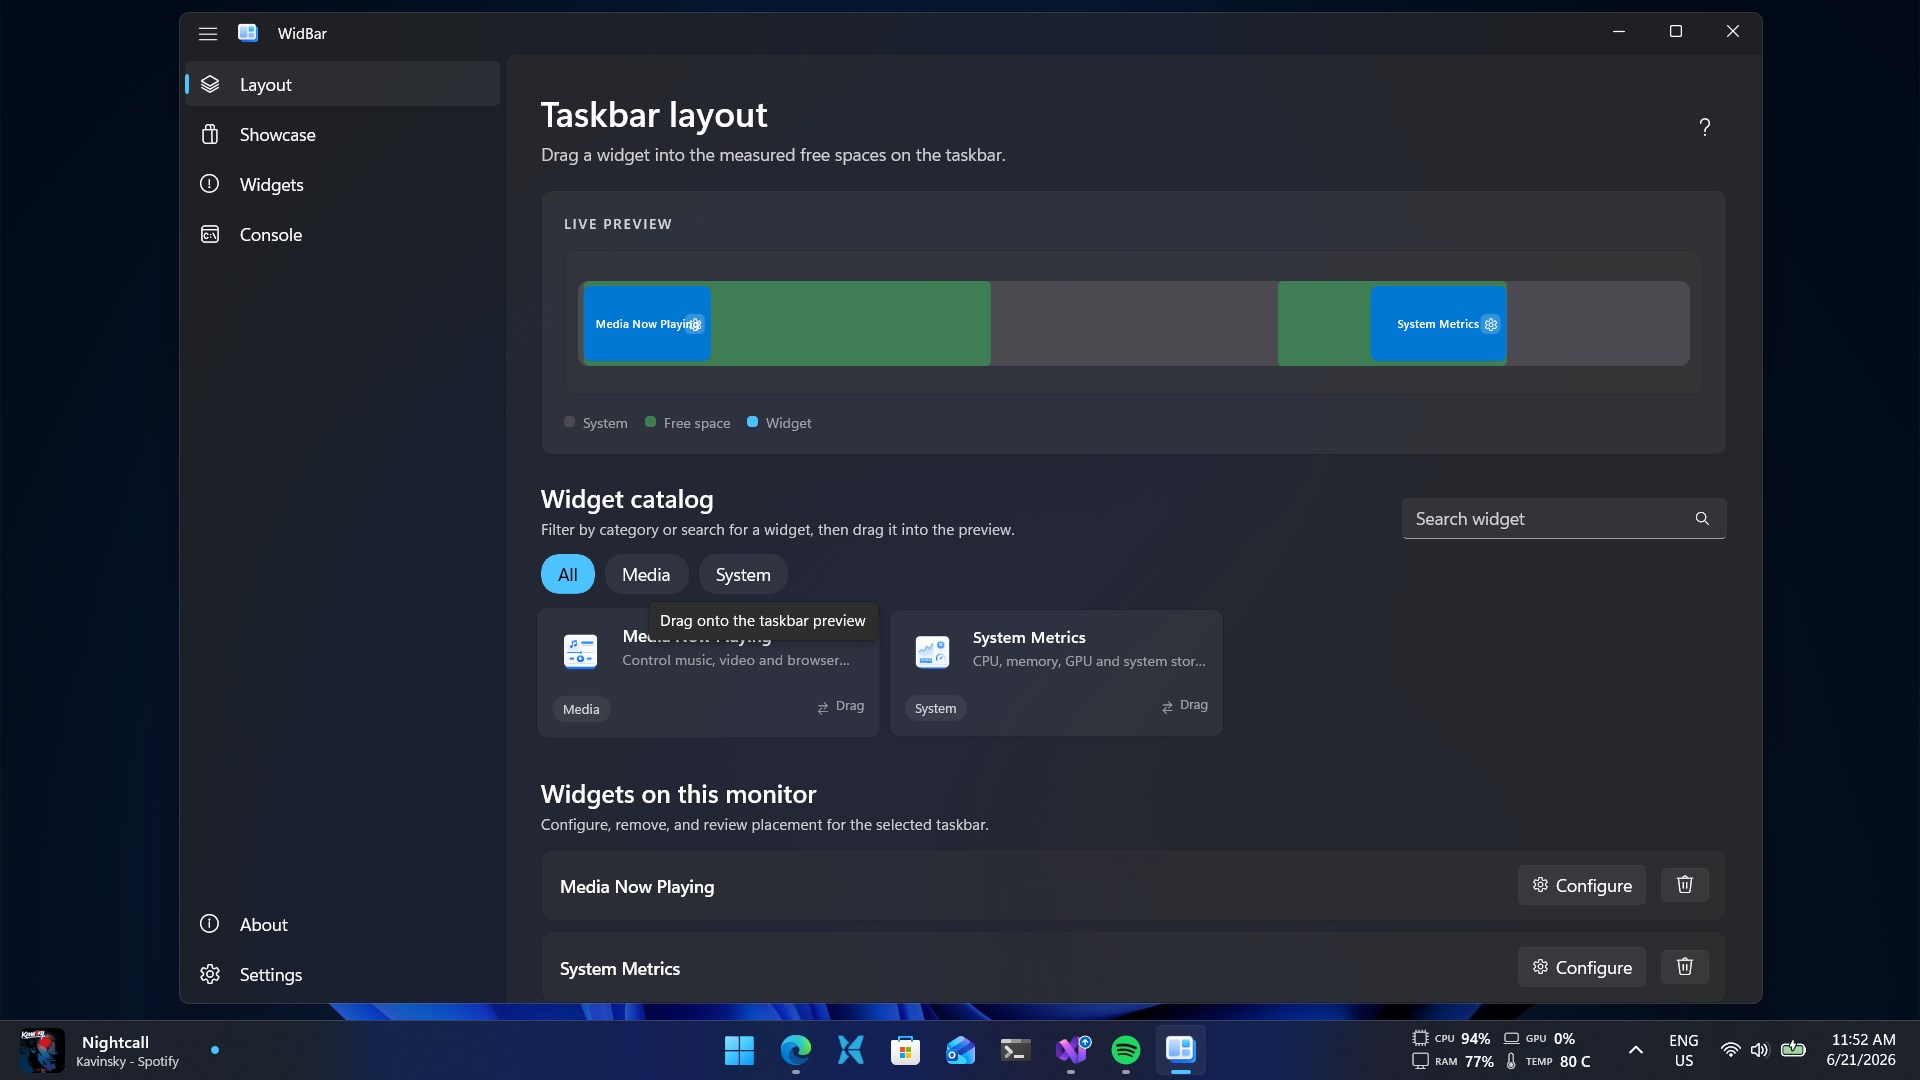
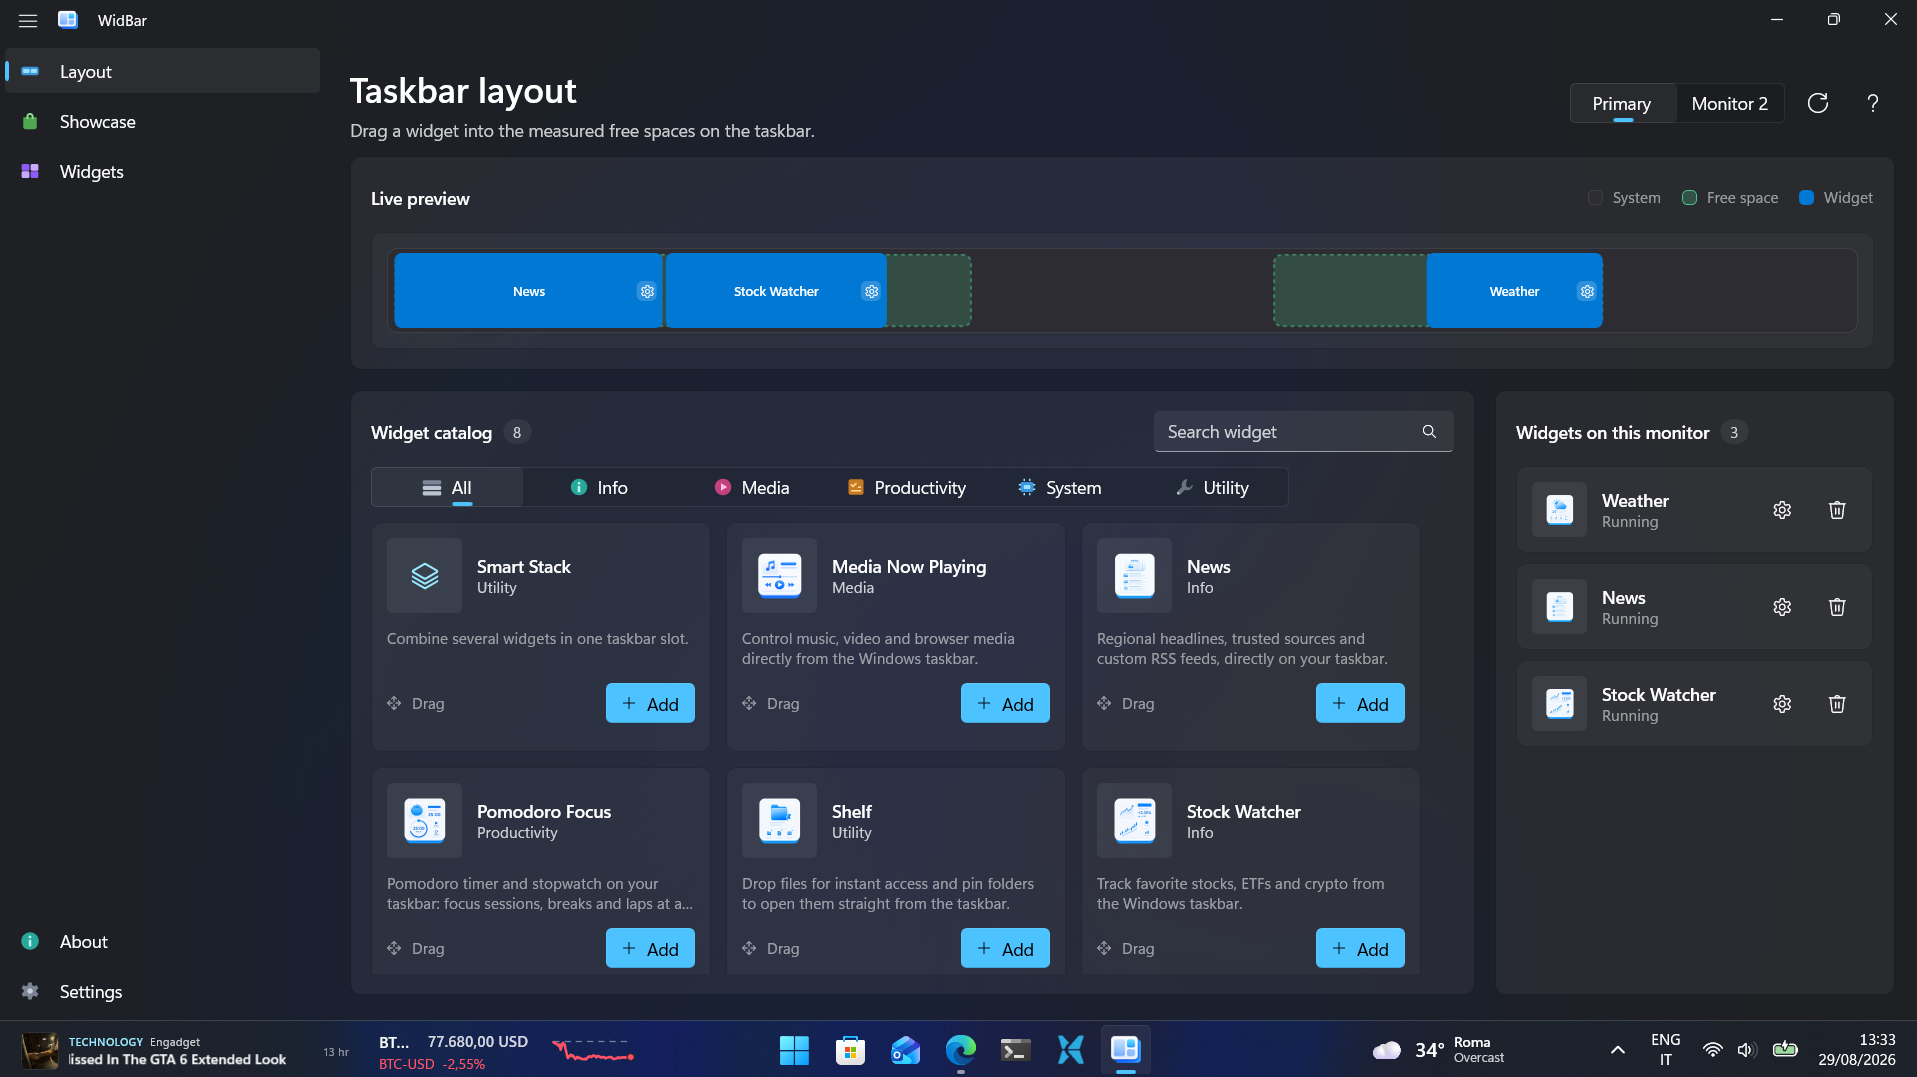
Refresh the hero and add News and Weather cards

diff --git a/styles.css b/styles.css
@@ -153,9 +153,10 @@ main {
 
 .hero {
   display: grid;
-  grid-template-columns: minmax(0, .72fr) minmax(520px, 1.28fr);
+  /* Wide enough for the headline to set in four lines rather than six. */
+  grid-template-columns: minmax(0, .84fr) minmax(520px, 1.16fr);
   align-items: center;
-  gap: clamp(34px, 6vw, 86px);
+  gap: clamp(34px, 5vw, 72px);
   min-height: min(820px, calc(100vh - 60px));
   padding: 46px 0 48px;
 }
@@ -179,9 +180,11 @@ p {
 h1 {
   margin-bottom: 18px;
   max-width: 700px;
-  font-size: clamp(2.8rem, 5vw, 4.15rem);
-  line-height: 1;
-  letter-spacing: 0;
+  font-size: clamp(2.6rem, 4.4vw, 3.9rem);
+  line-height: 1.04;
+  letter-spacing: -.01em;
+  /* Evens out the line lengths instead of leaving one orphan word per line. */
+  text-wrap: balance;
 }
 
 h2 {
@@ -232,14 +235,17 @@ h3 {
   isolation: isolate;
 }
 
+/* Soft glow behind the screenshots. */
 .hero-composition::before {
   content: "";
   position: absolute;
-  inset: 15% 4% 10% 16%;
+  inset: 0;
   z-index: -1;
-  border-radius: 16px;
-  background: linear-gradient(135deg, rgba(73, 191, 243, .2), rgba(112, 215, 122, .12));
-  opacity: .7;
+  /* Stops fade to their own hue at zero alpha. `transparent` is black, and
+     fading through it leaves a grey rectangle the size of the element. */
+  background:
+    radial-gradient(58% 46% at 66% 26%, rgba(73, 191, 243, .2), rgba(73, 191, 243, 0) 72%),
+    radial-gradient(42% 36% at 24% 78%, rgba(112, 215, 122, .1), rgba(112, 215, 122, 0) 74%);
 }
 
 .hero-layer {
@@ -248,42 +254,74 @@ h3 {
   border-radius: 8px;
   background: var(--panel);
   box-shadow: 0 28px 80px rgba(0, 0, 0, .42);
-  transition: transform .28s ease, border-color .28s ease, box-shadow .28s ease;
+  transition: transform .28s ease, scale .28s ease, border-color .28s ease, box-shadow .28s ease;
 }
 
+/* App behind, four widget flyouts fanned along the bottom. The stagger and the
+   tilt are what keep them legible; flush and straight they read as one band. */
 .hero-layer-main {
-  top: 12%;
+  top: 0;
   right: 0;
-  width: 86%;
-  z-index: 2;
+  width: 90%;
+  z-index: 1;
 }
 
-.hero-layer-media {
+.hero-layer-news {
   left: 0;
-  bottom: 3%;
-  width: 38%;
-  z-index: 4;
+  bottom: 15%;
+  width: 26%;
+  z-index: 5;
+  transform: rotate(-2deg);
   animation: heroFloat 7s ease-in-out infinite;
 }
 
-.hero-layer-metrics {
-  right: 6%;
-  bottom: 0;
-  width: 48%;
-  z-index: 3;
+.hero-layer-media {
+  left: 25%;
+  bottom: 6%;
+  width: 26%;
+  z-index: 4;
+  transform: rotate(-.6deg);
   animation: heroFloatAlt 8s ease-in-out infinite;
 }
 
+.hero-layer-weather {
+  left: 50%;
+  bottom: 13%;
+  width: 26%;
+  z-index: 3;
+  transform: rotate(.8deg);
+  animation: heroFloat 9s ease-in-out infinite;
+}
+
+.hero-layer-metrics {
+  right: 0;
+  bottom: 7%;
+  width: 27%;
+  z-index: 2;
+  transform: rotate(2deg);
+  animation: heroFloatAlt 10s ease-in-out infinite;
+}
+
+/* Hover nudges the stack apart. Each rule repeats its own tilt, or the card
+   would snap straight as soon as the pointer arrived. */
 .hero-composition:hover .hero-layer-main {
-  transform: translateY(-4px);
+  transform: translateY(-6px);
+}
+
+.hero-composition:hover .hero-layer-news {
+  transform: translateY(-10px) rotate(-3deg);
 }
 
 .hero-composition:hover .hero-layer-media {
-  transform: translateY(-6px) rotate(-.3deg);
+  transform: translateY(-6px) rotate(-1.2deg);
+}
+
+.hero-composition:hover .hero-layer-weather {
+  transform: translateY(-8px) rotate(1.4deg);
 }
 
 .hero-composition:hover .hero-layer-metrics {
-  transform: translateY(4px) rotate(.3deg);
+  transform: translateY(-4px) rotate(3deg);
 }
 
 @keyframes heroFloat {
@@ -320,7 +358,10 @@ h3 {
 
 .feature-grid {
   display: grid;
-  grid-template-columns: repeat(2, minmax(0, 1fr));
+  /* Two across on a desktop, one when it narrows. With four screenshot-led
+     cards, a wider card shows the widget; four in a row would squeeze each to
+     under 290px and the screenshots would be unreadable. */
+  grid-template-columns: repeat(auto-fit, minmax(420px, 1fr));
   gap: 18px;
 }
 
@@ -333,23 +374,26 @@ h3 {
   border-radius: 6px;
   border: 1px solid rgba(255, 255, 255, .08);
   margin-bottom: 18px;
-  transition: transform .22s ease, border-color .22s ease, opacity .22s ease;
+  transition: border-color .22s ease, opacity .22s ease;
 }
 
 .is-zoomable {
-  cursor: zoom-in;
+  cursor: pointer;
 }
 
 .is-zoomable:hover,
 .is-zoomable:focus-visible {
   border-color: rgba(73, 191, 243, .62);
-  opacity: .96;
   outline: none;
 }
 
-.feature-card > .is-zoomable:hover,
-.feature-card > .is-zoomable:focus-visible {
-  transform: scale(1.012);
+/* Only the hero cards zoom, and the one under the pointer comes to the front.
+   The zoom uses `scale` so it does not overwrite the tilt in `transform`. */
+.hero-layer.is-zoomable:hover,
+.hero-layer.is-zoomable:focus-visible {
+  z-index: 6;
+  scale: 1.12;
+  box-shadow: 0 34px 90px rgba(0, 0, 0, .55);
 }
 
 .workflow-section {
@@ -457,6 +501,7 @@ h3 {
 }
 
 .category-button {
+  position: relative;
   display: flex;
   align-items: center;
   justify-content: space-between;
@@ -472,14 +517,28 @@ h3 {
   cursor: pointer;
 }
 
-.category-button:hover,
+.category-button:hover {
+  background: var(--panel-2);
+  color: var(--text);
+}
+
 .category-button.is-active {
   background: var(--panel-3);
   color: var(--text);
 }
 
-.category-button.is-active {
-  box-shadow: inset 3px 0 0 var(--accent);
+/* Short accent bar, the way Windows marks a selected item. A full-height edge
+   fights the rounded corners and reads as a stray sliver. */
+.category-button.is-active::before {
+  content: "";
+  position: absolute;
+  left: 0;
+  top: 50%;
+  translate: 0 -50%;
+  width: 3px;
+  height: 16px;
+  border-radius: 2px;
+  background: var(--accent);
 }
 
 .category-count {

diff --git a/index.html b/index.html
@@ -7,7 +7,7 @@
   <title>WidBar - Windows taskbar widgets</title>
   <meta name="description" content="WidBar adds clean, customizable widgets to the Windows 11 taskbar. Browse available widgets and install them from Microsoft Store.">
   <link rel="icon" href="assets/widbar-logo.png">
-  <link rel="stylesheet" href="styles.css">
+  <link rel="stylesheet" href="styles.css?v=6">
 </head>
 <body>
   <header class="site-header">
@@ -31,7 +31,7 @@
     <section class="hero" id="overview">
       <div class="hero-copy">
         <p class="eyebrow">Built for Windows 11</p>
-        <h1>WidBar adds widgets to your Windows 11 taskbar.</h1>
+        <h1>WidBar adds widgets to your Windows&nbsp;11 taskbar.</h1>
         <p class="hero-text">
           WidBar lets you place compact widgets in open spaces on the taskbar, so performance,
           media controls and small tools stay visible without taking over your desktop.
@@ -43,8 +43,10 @@
       </div>
 
       <figure class="hero-composition" aria-label="WidBar app and taskbar widgets">
-        <img class="hero-layer hero-layer-main" src="assets/widbar-layout.png" alt="WidBar layout page showing widgets arranged on the Windows taskbar">
+        <img class="hero-layer hero-layer-main" src="assets/widbar-layout.png?v=2" alt="WidBar layout page showing widgets arranged on the Windows taskbar">
+        <img class="hero-layer hero-layer-weather" src="assets/weather-flyout.png?v=2" alt="Weather widget flyout with current conditions and a ten day forecast">
         <img class="hero-layer hero-layer-media" src="assets/media-flyout.png" alt="Media widget flyout with album artwork and playback controls">
+        <img class="hero-layer hero-layer-news" src="assets/news-flyout.png?v=2" alt="News widget flyout with top stories and sources">
         <img class="hero-layer hero-layer-metrics" src="assets/system-metrics-flyout.png" alt="System Metrics widget flyout with live performance graphs">
       </figure>
     </section>
@@ -67,6 +69,18 @@
           <img src="assets/media-flyout.png" alt="Media widget flyout with artwork, timeline and playback controls">
           <h3>Control media faster</h3>
           <p>Media Now Playing brings artwork, title, source and playback controls to your taskbar.</p>
+        </article>
+
+        <article class="feature-card">
+          <img src="assets/news-flyout.png?v=2" alt="News widget flyout with top stories, sources and related coverage">
+          <h3>Read the headlines in place</h3>
+          <p>News keeps regional headlines, trusted sources and your own RSS feeds one click away on the taskbar.</p>
+        </article>
+
+        <article class="feature-card">
+          <img src="assets/weather-flyout.png?v=2" alt="Weather widget flyout with current conditions, hourly trend and ten day forecast">
+          <h3>Check the sky without a tab</h3>
+          <p>Weather keeps the temperature on the taskbar, with the next 24 hours and ten days behind one click.</p>
         </article>
       </div>
     </section>
@@ -234,6 +248,6 @@
     </article>
   </template>
 
-  <script src="app.js" defer></script>
+  <script src="app.js?v=2" defer></script>
 </body>
 </html>

diff --git a/privacy.html b/privacy.html
@@ -7,7 +7,7 @@
   <title>Privacy - WidBar</title>
   <meta name="description" content="Privacy policy for WidBar, the WidBar website and the widget showcase.">
   <link rel="icon" href="assets/widbar-logo.png">
-  <link rel="stylesheet" href="styles.css">
+  <link rel="stylesheet" href="styles.css?v=6">
 </head>
 <body>
   <header class="site-header">
